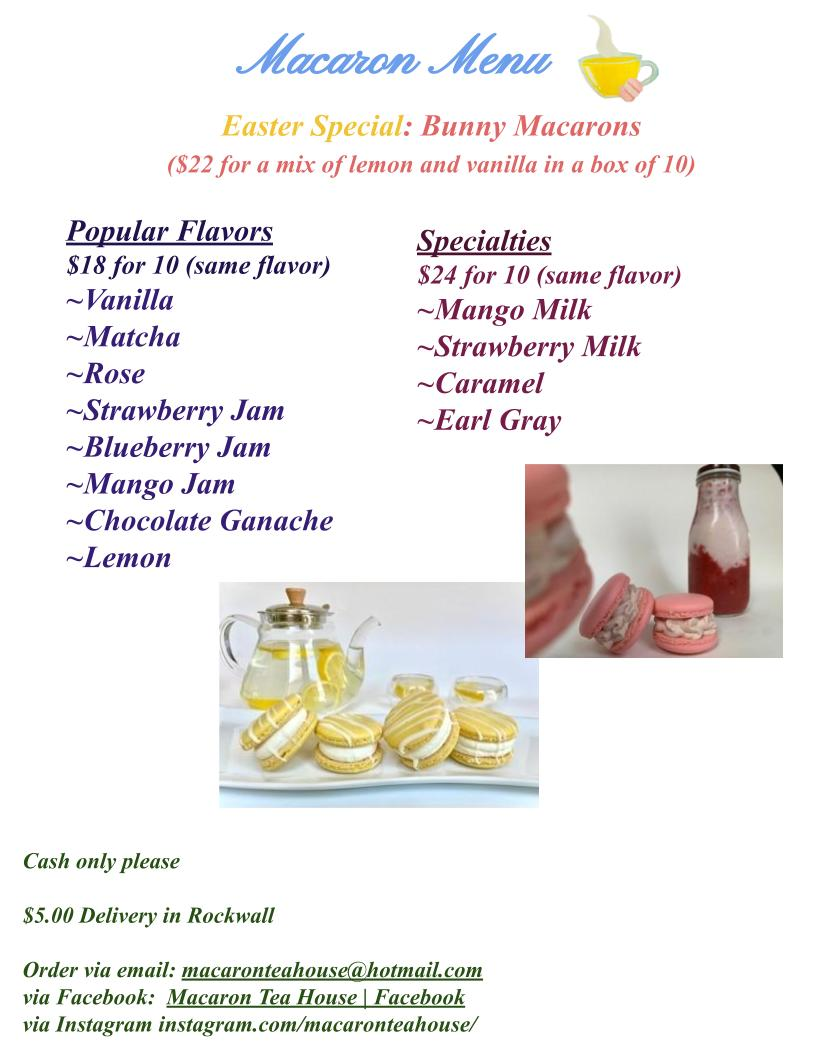
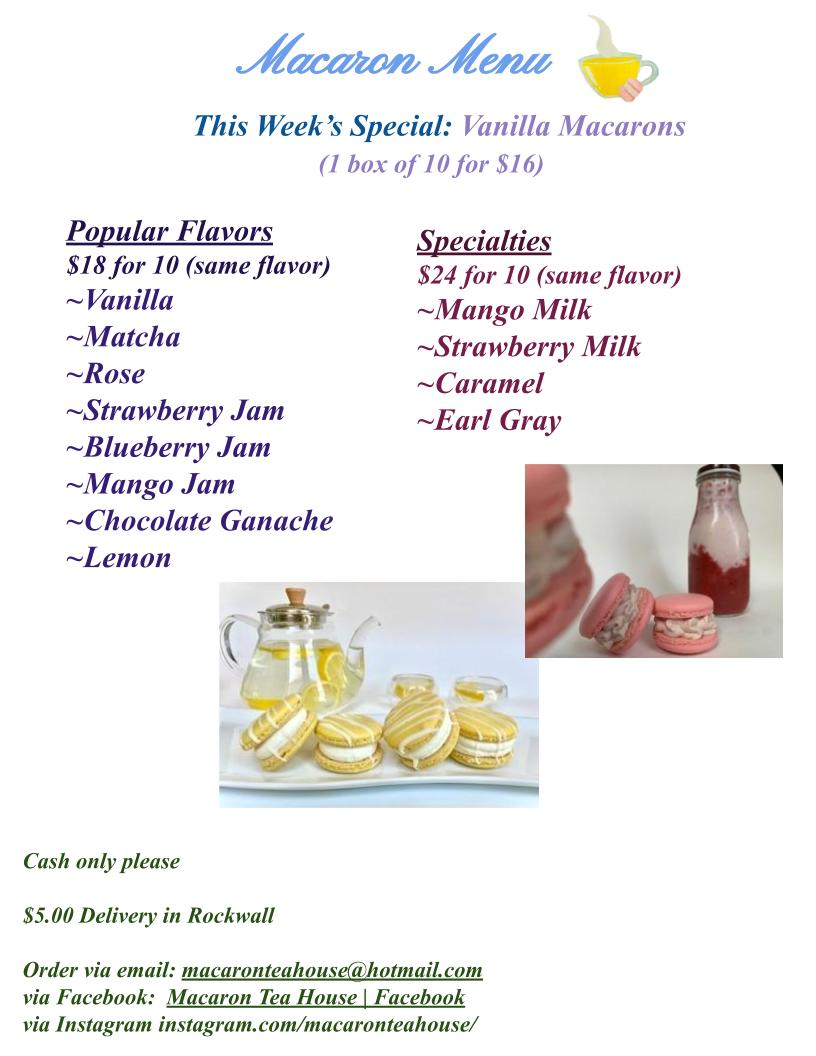
ff

Changed region(s): [[0.2145, 0.0938, 0.8578, 0.1875]]

diff --git a/A_Special.html b/A_Special.html
@@ -63,17 +63,18 @@
 
 <body>
 <container id="title">
-	<h1> <p style="font-size:200%; width:100%"> <b> <i> Bunny Macarons </b> </i> </p> </h1>
+	<h1> <p style="font-size:200%; width:100%"> <b> <i> Vanilla Macarons </b> </i> </p> </h1>
 </container>
 <container id="info">
 	<div id="chocC">
 
-		<img src="Pictures/\bunny.jpg" width="80%" height="auto">
+		<img src="Pictures/\vv.jpg" width="80%" height="auto">
 	</div>
 	<div id="choc">
 
-		<p style="font-size:150%;color:#05b09f" width="100%" height="auto">Easter Special: Bunny Macarons! This is the perfect treat for Easter! One box includes a mix of vanilla (pink) and lemon (yellow) macarons.
-			These adorable macarons are crunchy yet soft on the inside with delightfully spring-y flavors. (one box of 10 for $22) 
+		<p style="font-size:150%;color:#05b09f" width="100%" height="auto">A crunchy and chewy macaron. This macaron has a distinct, but simple flavor of vanilla.
+	It is great with a cup of milk or a combination of hibiscus and butterfly pea tea. This can be stored in the fridge for up to a few days. This simple yet elegant dessert is great to be enjoyed as a late afternoon snack or even whenever. :)
+	Set it at room temperature 15-20 minutes before serving. $16.00 for 10 macarons
 
  </p>
 	</div>
@@ -83,7 +84,7 @@
 <p style="font-size:160%; color:#000000; position:relative; width:100%; margin:auto"> <u>Ingredients</u> <br>
 ~blanched almond flour <br> ~powdered sugar <br> ~free range egg whites
 <br> ~organic unbleached cane sugar <br> ~cream of tartar
-<br> ~fresh cream <br> ~lemon <br> ~lotus biscoff cookies
+<br> ~fresh cream <br> ~lemon <br> ~vanilla
 </div>
 
 	<div id="button-4">

diff --git a/Vanilla.html b/Vanilla.html
@@ -74,7 +74,7 @@
 
 				<p style="font-size:150%;color:#05b09f" width="100%" height="auto">A crunchy and chewy macaron. This macaron has a distinct, but simple flavor of vanilla.
       It is great with a cup of milk or a combination of hibiscus and butterfly pea tea. This can be stored in the fridge for up to a few days. This simple yet elegant dessert is great to be enjoyed as a late afternoon snack or even whenever. :)
-		  Set it at room temperature 15-20 minutes before serving. $18.00 for 10 macarons</p>
+		  Set it at room temperature 15-20 minutes before serving. $16.00 for 10 macarons</p>
 			</div>
 		</container>
 	<container id= "both">
